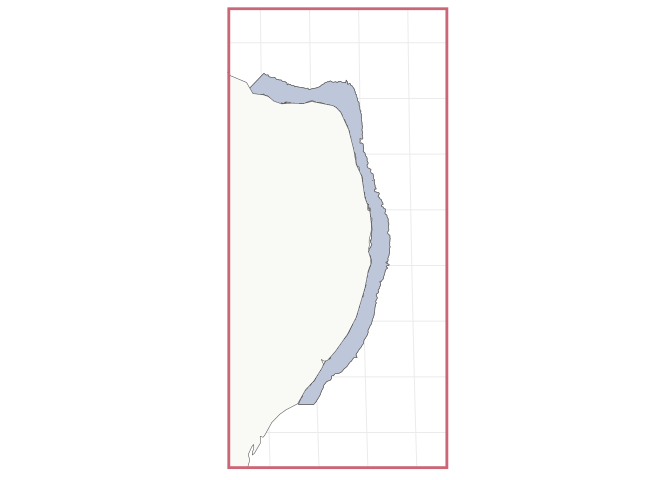
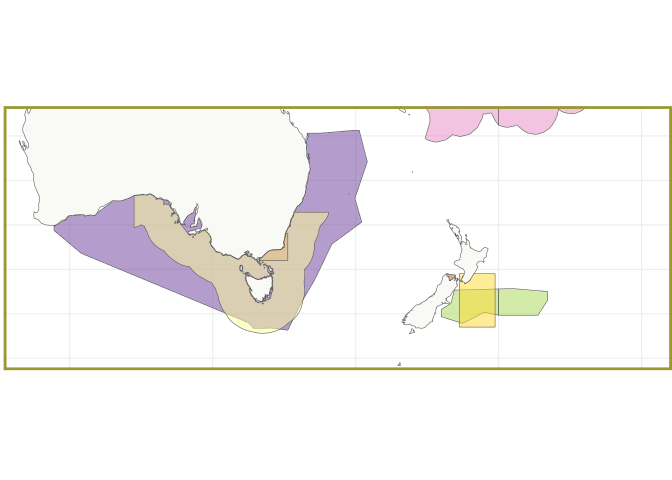
Changing final map based on meeting with Julia

diff --git a/Scripts/02_Mapping_Regional_Models.md b/Scripts/02_Mapping_Regional_Models.md
@@ -19,15 +19,16 @@ Denisse Fierro Arcos
     id="toc-mapping-fishmip-regional-models">Mapping FishMIP regional
     models</a>
     - <a href="#europe" id="toc-europe">Europe</a>
-    - <a href="#brazil" id="toc-brazil">Brazil</a>
     - <a href="#australia-and-new-zealand"
       id="toc-australia-and-new-zealand">Australia and New Zealand</a>
     - <a href="#southern-ocean" id="toc-southern-ocean">Southern Ocean</a>
     - <a href="#adding-boundaries-of-inset-maps-into-main-map"
       id="toc-adding-boundaries-of-inset-maps-into-main-map">Adding boundaries
       of inset maps into main map</a>
-  - <a href="#saving-final-map" id="toc-saving-final-map">Saving final
-    map</a>
+    - <a href="#merging-main-map-with-inset-maps"
+      id="toc-merging-main-map-with-inset-maps">Merging main map with inset
+      maps</a>
+  - <a href="#saving-maps" id="toc-saving-maps">Saving maps</a>
 
 # Introduction
 
@@ -65,6 +66,7 @@ library(dplyr)
     ##     intersect, setdiff, setequal, union
 
 ``` r
+library(stringr)
 #Spatial data
 library(sf)
 ```
@@ -135,25 +137,34 @@ fishmip_reg <- read_sf("../Outputs/FishMIP_regional_models/FishMIP_regional_mode
 fishmip_reg
 ```
 
-    ## Simple feature collection with 22 features and 1 field
+    ## Simple feature collection with 20 features and 3 fields
     ## Geometry type: MULTIPOLYGON
     ## Dimension:     XY
     ## Bounding box:  xmin: -180 ymin: -69.8008 xmax: 180 ymax: 64.5
     ## Geodetic CRS:  WGS 84
-    ## # A tibble: 22 × 2
-    ##    region                                                               geometry
-    ##  * <chr>                                                      <MULTIPOLYGON [°]>
-    ##  1 Baltic Sea         (((23.5 64.5, 23.5 64.05521, 23.49948 64.05469, 23.49792 …
-    ##  2 Benguela           (((19.90119 -36.77948, 17.34643 -34.5195, 14.36752 -29.82…
-    ##  3 Brasil NE          (((-36.94482 -4.549031, -36.94233 -4.551432, -36.93993 -4…
-    ##  4 Central Pacific    (((-168.2779 -22.09492, -168.6017 -22.25041, -169.2678 -2…
-    ##  5 Chatham Rise       (((172 -45.33333, 172 -44.91667, 172 -44.5, 173.3333 -43.…
-    ##  6 Cook Strait        (((175.209 -40.5, 175.2088 -40.50062, 175.2087 -40.50105,…
-    ##  7 East Bass Strait   (((150.5 -36, 150.5 -39, 146.5 -39, 146.5 -38.78087, 146.…
-    ##  8 East Bearing Sea   (((-165.61 54.51, -165.61 54.52, -165.61 54.53, -165.59 5…
-    ##  9 East Scotian Shelf (((-60.0875 47.2625, -60.0875 47.25833, -60.075 47.25833,…
-    ## 10 Gulf Alaska        (((-166.2288 53.93614, -166.2306 53.93381, -166.2309 53.9…
-    ## # ℹ 12 more rows
+    ## # A tibble: 20 × 4
+    ##    region                 models               nmbr_md                  geometry
+    ##  * <chr>                  <chr>                  <int>        <MULTIPOLYGON [°]>
+    ##  1 Baltic Sea             EwE, Mizer                 2 (((23.5 64.5, 23.5 64.05…
+    ##  2 Benguela               Atlantis, EwE, OSMO…       3 (((19.90119 -36.77948, 1…
+    ##  3 Brasil NE              EcoSpace                   1 (((-36.94482 -4.549031, …
+    ##  4 Central South Pacific  Mizer                      1 (((-168.2779 -22.09492, …
+    ##  5 Chatham Rise           Atlantis, EwE, Mizer       3 (((172 -45.33333, 172 -4…
+    ##  6 Cook Strait            EwE                        1 (((175.209 -40.5, 175.20…
+    ##  7 East Bass Strait       EwE                        1 (((150.5 -36, 150.5 -39,…
+    ##  8 East Bering Sea        Mizer                      1 (((-165.61 54.51, -165.6…
+    ##  9 East Scotian Shelf     Mizer                      1 (((-60.0875 47.2625, -60…
+    ## 10 Gulf Alaska            Mizer                      1 (((-166.2288 53.93614, -…
+    ## 11 Hawaiian Longline      Mizer                      1 (((-150 40, -150 36, -12…
+    ## 12 Kerguelen EwE          EwE                        1 (((80 -56, 75 -56, 70 -5…
+    ## 13 Kerguelen Mizer        Mizer                      1 (((79.45 -49.95, 79.45 -…
+    ## 14 Mediterranean Sea      EwE                        1 (((29.05594 41.0923, 29.…
+    ## 15 North Humboldt         OSMOSE                     1 (((-77.3643 6, -77.3643 …
+    ## 16 North Sea              EwE, Mizer                 2 (((4.99375 62, 4.995313 …
+    ## 17 Prydz Bay              EwE, Mizer                 2 (((60 -67.40114, 60 -67.…
+    ## 18 SE Australia Atlantis  Atlantis                   1 (((117.8 -35.4699, 117.8…
+    ## 19 SE Australia Mizer     Mizer                      1 (((130.8023 -31.65674, 1…
+    ## 20 Tasman and Golden Bays Atlantis, EwE, Mizer       3 (((173.0022 -40.81916, 1…
 
 # Plotting map
 
@@ -183,7 +194,7 @@ world <- ne_countries(scale = "medium", returnclass = "sf") |>
   st_transform(rob_proj)
 
 #Creating a colour palette by merging colour brewer palettes
-pal <- c(brewer.pal(7, "Set2"), brewer.pal(7, "Dark2"), brewer.pal(8, "Set1"))
+pal <- c(brewer.pal(8, "Set2"), brewer.pal(12, "Paired"))
 
 #Reprojecting FishMIP regions
 fishmip_reg_rob <- fishmip_reg |> 
@@ -206,21 +217,18 @@ reg <- fishmip_reg_rob |>
   #Plotting
   ggplot()+
   #Using colours of our tailored made colourmap
-  geom_sf(aes(fill = fill))+
-  #Use colours specified in the fill column, but label by region
-  scale_fill_identity(labels = fishmip_reg_rob$region, guide = "legend", 
-                      #Ensure regions are ordered the same way as colours used
-                      breaks = fishmip_reg_rob$fill)+
+  geom_sf(aes(fill = region), alpha = 0.5)+
+  geom_sf(data = world, fill = "#f9f9f5", show.legend = F)+
+  scale_fill_manual(values = fishmip_reg_rob$fill)+
+  theme_bw()+
   #Move legend to bottom
   theme(legend.position = "bottom", legend.title = element_blank(),
         legend.margin = margin(0, 0, 0, 0),
         legend.box.margin = margin(0, 0, 0, 0),
-        legend.text = element_text(margin = margin(r = 5)))+
+        legend.text = element_text(margin = margin(r = 5)),
+        panel.border = element_rect(colour = NA))+
   #Split legend into four columns
   guides(fill = guide_legend(ncol = 4))
-
-#Extracting legend from FishMIP regions
-leg <- get_legend(reg)
 
 #Checking map so far
 reg
@@ -243,7 +251,7 @@ We will use the base map above to create these smaller maps.
 ``` r
 europe <- reg+
   #We will increase transparency to see overlapping areas better
-  geom_sf(inherit.aes = T, aes(alpha = 0.3))+
+  geom_sf(inherit.aes = T, aes(alpha = 0.5))+
   #Remove background
   theme_bw()+
   #Remove legend
@@ -268,71 +276,72 @@ europe
 
 ![](02_Mapping_Regional_Models_files/figure-gfm/unnamed-chunk-4-1.png)<!-- -->
 
-### Brazil
-
-``` r
-brazil <- reg+
-  #We will increase transparency to see overlapping areas better
-  geom_sf(inherit.aes = T, aes(alpha = 0.3))+
-  #Remove background
-  theme_bw()+
-  #Remove legend
-  theme(legend.position = "none")+
-  #Add world base map
-  geom_sf(data = world, fill = "#f9f9f5")+
-  #Focus on Brazil.
-  lims(x = c(-3537222, -3151458), y = c(-1206289, -400000))+
-  #Add a border to map so it is easily identifiable
-  theme(panel.border = element_rect(colour = "#cc6677", linewidth = 2),
-        axis.text = element_blank(), axis.ticks = element_blank())
-
-#Create a shapefile with map limits
-br_box <- st_bbox(c(xmin = -3537222, xmax = -3151458, ymax = -400000, ymin = -1206289),
-                  crs = rob_proj) |>
-  st_as_sfc()
-
-#Check map of Brazil
-brazil
-```
-
-![](02_Mapping_Regional_Models_files/figure-gfm/unnamed-chunk-5-1.png)<!-- -->
-
 ### Australia and New Zealand
 
+Because one of the regions in New Zealand crosses the international date
+line, we will show this area in an unprojected map.
+
 ``` r
-au_nz <- reg+
+au_nz <- fishmip_reg %>%
+  #Switching to 0-360 degrees longitude
+  st_shift_longitude() %>%
+  ggplot()+
   #We will increase transparency to see overlapping areas better
-  geom_sf(inherit.aes = T, aes(alpha = 0.3))+
+  geom_sf(aes(fill = region), alpha = 0.5)+
+  #Add world base map
+  geom_sf(inherit.aes = F, data = world, fill = "#f9f9f5", show.legend = F)+
+  #Focus on Australia and New Zealand
+  lims(x = c(115, 200), y = c(-50, -23))+
+  scale_fill_manual(values = fishmip_reg_rob$fill)+
+  #Remove background
+  theme_bw()+
+  #Remove legend
+  theme(legend.position = "none")
+
+#Adding Bass Strait on top so it is easier to see
+#Extract Bass Strait region
+Tas <- fishmip_reg %>% 
+  filter(str_detect(region, "Bass")) %>% 
+  mutate(fill = "#E5C494")
+
+#Plot Bass Strait over the original AU/NZ map
+au_nz <- au_nz+
+  geom_sf(inherit.aes = F, data = Tas, aes(fill = region), alpha = 0.5)+
+  scale_fill_manual(values = fishmip_reg_rob$fill)+
   #Remove background
   theme_bw()+
   #Remove legend
   theme(legend.position = "none")+
-  #Add world base map
-  geom_sf(data = world, fill = "#f9f9f5")+
-  #Focus on Australia and New Zealand
-  lims(x = c(10568611, 15500000), y = c(-5112577, -2600000))+
   #Add a border to map so it is easily identifiable
   theme(panel.border = element_rect(colour = "#999933", linewidth = 2),
         axis.text = element_blank(), axis.ticks = element_blank(),
         plot.margin = margin(0, 0, 0, 0, unit = "cm"))
+```
 
+    ## Scale for fill is already present.
+    ## Adding another scale for fill, which will replace the existing scale.
+
+``` r
 #Create a shapefile with map limits
-au_nz_box <- st_bbox(c(xmin = 10468611, xmax = 15600000, ymax = -2500000, ymin = -5212577),
-                  crs = rob_proj) |>
-  st_as_sfc()
+au_nz_box <- st_union(st_bbox(c(xmin = 115, xmax = 180, ymax = -23, ymin = -50),
+                              crs = 4326) %>% st_as_sfc(),
+                      st_bbox(c(xmin = -180, xmax = 200, ymax = -23, ymin = -50),
+                              crs = 4326) %>%  st_as_sfc()) %>% 
+  #Projecting to Robinson
+  st_transform(rob_proj)
 
 #Check map
 au_nz
 ```
 
-![](02_Mapping_Regional_Models_files/figure-gfm/unnamed-chunk-6-1.png)<!-- -->
+![](02_Mapping_Regional_Models_files/figure-gfm/unnamed-chunk-5-1.png)<!-- -->
 
 ### Southern Ocean
 
 ``` r
 so <- reg+
   #We will increase transparency to see overlapping areas better
-  geom_sf(inherit.aes = T, aes(alpha = 0.3))+
+  geom_sf(inherit.aes = T, aes(alpha = 0.5))+
   #Remove background
   theme_bw()+
   #Remove legend
@@ -355,67 +364,68 @@ so_box <- st_bbox(c(xmin = 4098611, xmax = 6900000, ymax = -4612577, ymin = -732
 so
 ```
 
-![](02_Mapping_Regional_Models_files/figure-gfm/unnamed-chunk-7-1.png)<!-- -->
+![](02_Mapping_Regional_Models_files/figure-gfm/unnamed-chunk-6-1.png)<!-- -->
 
 ### Adding boundaries of inset maps into main map
 
 ``` r
 main <- reg+
-  geom_sf(inherit.aes = T, aes(alpha = 0.4))+
-  geom_sf(data = world, fill = "#f9f9f5")+
   geom_sf(data = eu_box, color = "#0077bb", fill = NA, linewidth = 0.5)+
   geom_sf(data = au_nz_box, color = "#999933", fill = NA, linewidth = 0.5)+
-  geom_sf(data = so_box, color = "#332288", fill = NA, linewidth = 0.5)+
-  theme_bw()+
-  theme(legend.position = "none", 
-        panel.border = element_rect(colour = NA),
-        plot.margin = margin(-2.5, 3.5, -4.5, 3.5, unit = "cm"))
+  geom_sf(data = so_box, color = "#332288", fill = NA, linewidth = 0.5)
 
 main
+```
+
+![](02_Mapping_Regional_Models_files/figure-gfm/unnamed-chunk-7-1.png)<!-- -->
+
+``` r
+# inset_left <- 
+plot_grid(NULL, main, plot_grid(NULL, europe, au_nz, so, NULL, NULL, nrow = 6), 
+          ncol = 3, rel_widths = c(0.1, 1., 0.25))
 ```
 
 ![](02_Mapping_Regional_Models_files/figure-gfm/unnamed-chunk-8-1.png)<!-- -->
 
 ``` r
-inset_left <- plot_grid(europe, au_nz, nrow = 2)
-inset_right <- plot_grid(NULL, so, nrow = 2, rel_heights = c(0.75, 1))
-
-plot_grid(inset_left, main, inset_right, ncol = 3, rel_widths = c(0.3, 1, 0.3),
-          rel_heights = c(0.75, 1, 0.75))
+ggsave("../test.pdf", device = "pdf")
 ```
 
-![](02_Mapping_Regional_Models_files/figure-gfm/unnamed-chunk-9-1.png)<!-- -->
-\### Merging main map with inset maps
+    ## Saving 7 x 5 in image
+
+### Merging main map with inset maps
 
 ``` r
 #Merging main map and insets
-main_inset <- ggdraw(main)+
-  draw_plot(au_nz, x = .75, y = 0.125, width = 0.25, height = 0.3)+
-  draw_plot(so, x = 0, y = 0.175, width = 0.225, height = 0.25)+
-  draw_plot(europe, x = .74, y = 0.55, width = 0.25, height = 0.25)
+final_map <- ggdraw(main)+
+  draw_plot(au_nz, x = .75, y = 0.675, width = 0.22, height = 0.3)+
+  draw_plot(so, x = .7, y = 0.36, width = 0.33, height = 0.325)+
+  draw_plot(europe, x = .72, y = 0.04, width = 0.3, height = 0.3)
 
-#Adding legend
-final_map <- main_inset+
-  theme(plot.margin = margin(b = 3.25, t = -2.5, unit = "cm"))+
-  draw_plot(leg, x = 0, y = -0.475)
+final_map <- final_map+
+  theme(plot.margin = margin(l = -5, unit = "cm"))
 
 #Checking final result
 final_map
 ```
 
-![](02_Mapping_Regional_Models_files/figure-gfm/unnamed-chunk-10-1.png)<!-- -->
+![](02_Mapping_Regional_Models_files/figure-gfm/unnamed-chunk-9-1.png)<!-- -->
 
 The map above may not look great in your screen, but once it is saved to
 your local machine, it will plot correctly. However, you can change the
 code here to fit it to your needs.
 
-## Saving final map
+## Saving maps
 
 The final map can be saved to your local machine. We will save it as
 vector image so it still looks good even when expanded. You can also
-find a copy of this image in the [FishMIP THREDDS server](http://portal.sf.utas.edu.au/thredds/catalog/gem/fishmip/catalog.html).
+find a copy of this image in the [FishMIP THREDDS
+server](http://portal.sf.utas.edu.au/thredds/catalog/gem/fishmip/catalog.html).
 
 ``` r
-#Saving map
-ggsave("../Outputs/FishMIP_regional_models.svg", final_map, device = "svg")
+#Saving final map
+ggsave("../Outputs/FishMIP_regional_models_insets.pdf", final_map, device = "pdf", width = 22.5, height = 10, units = "cm")
+
+#Saving main map with just regions and no insets
+ggsave("../Outputs/FishMIP_regional_models.pdf", reg, device = "pdf")
 ```
